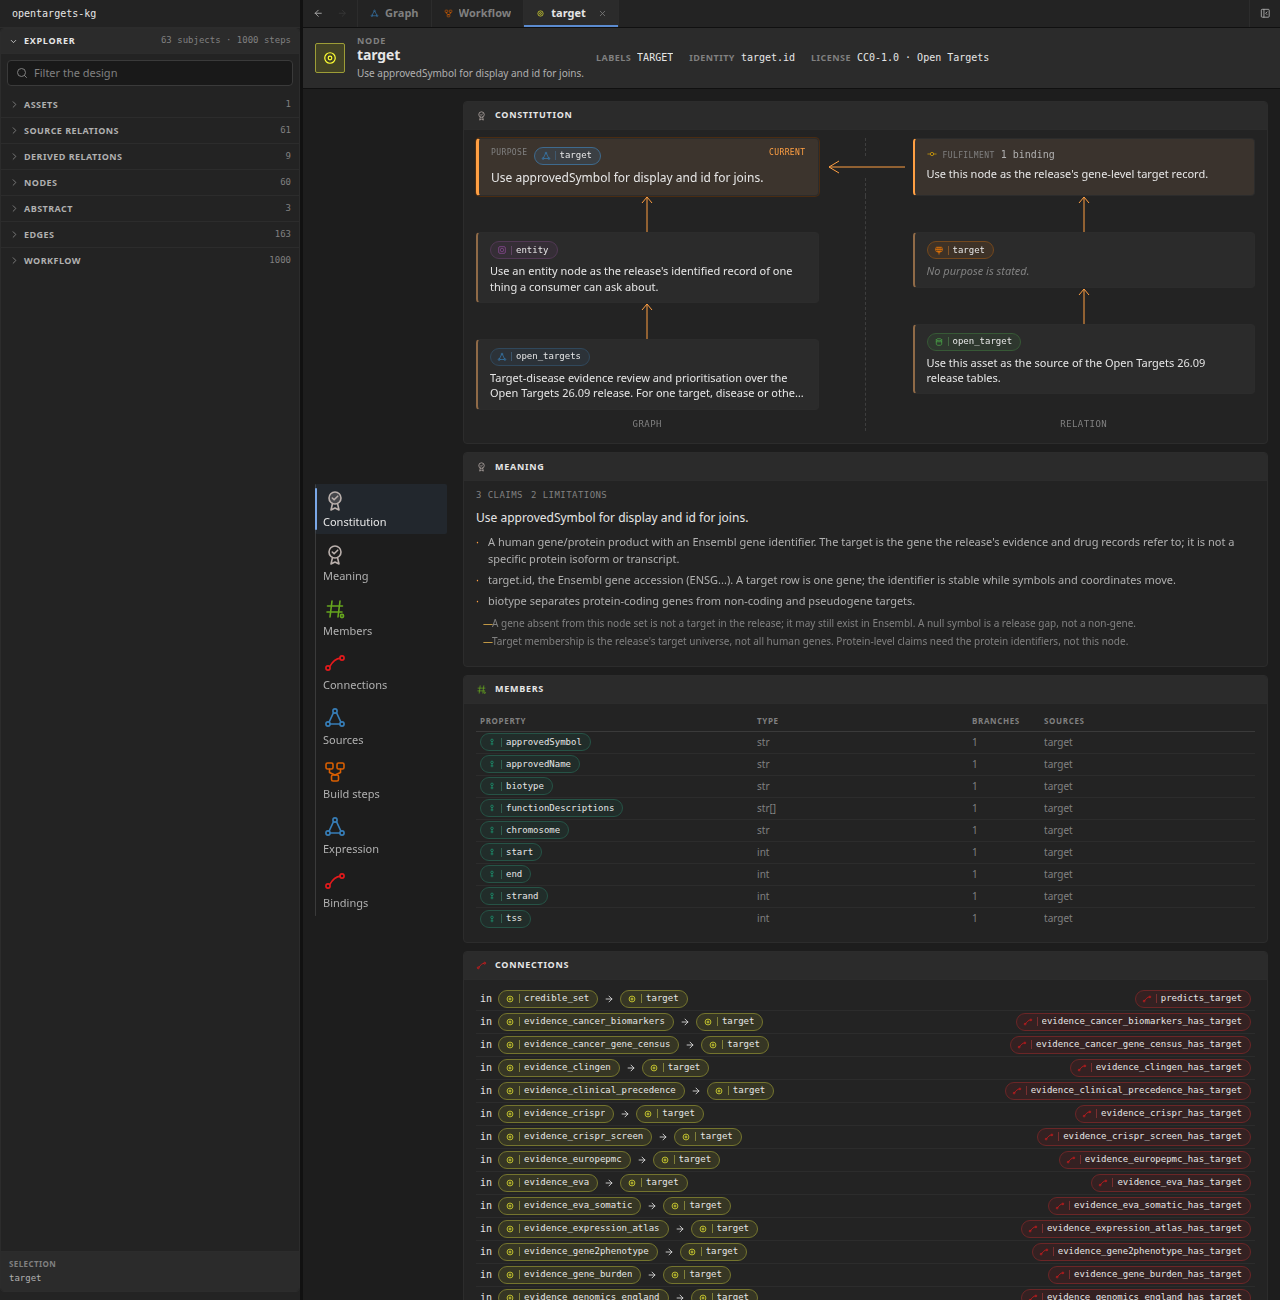
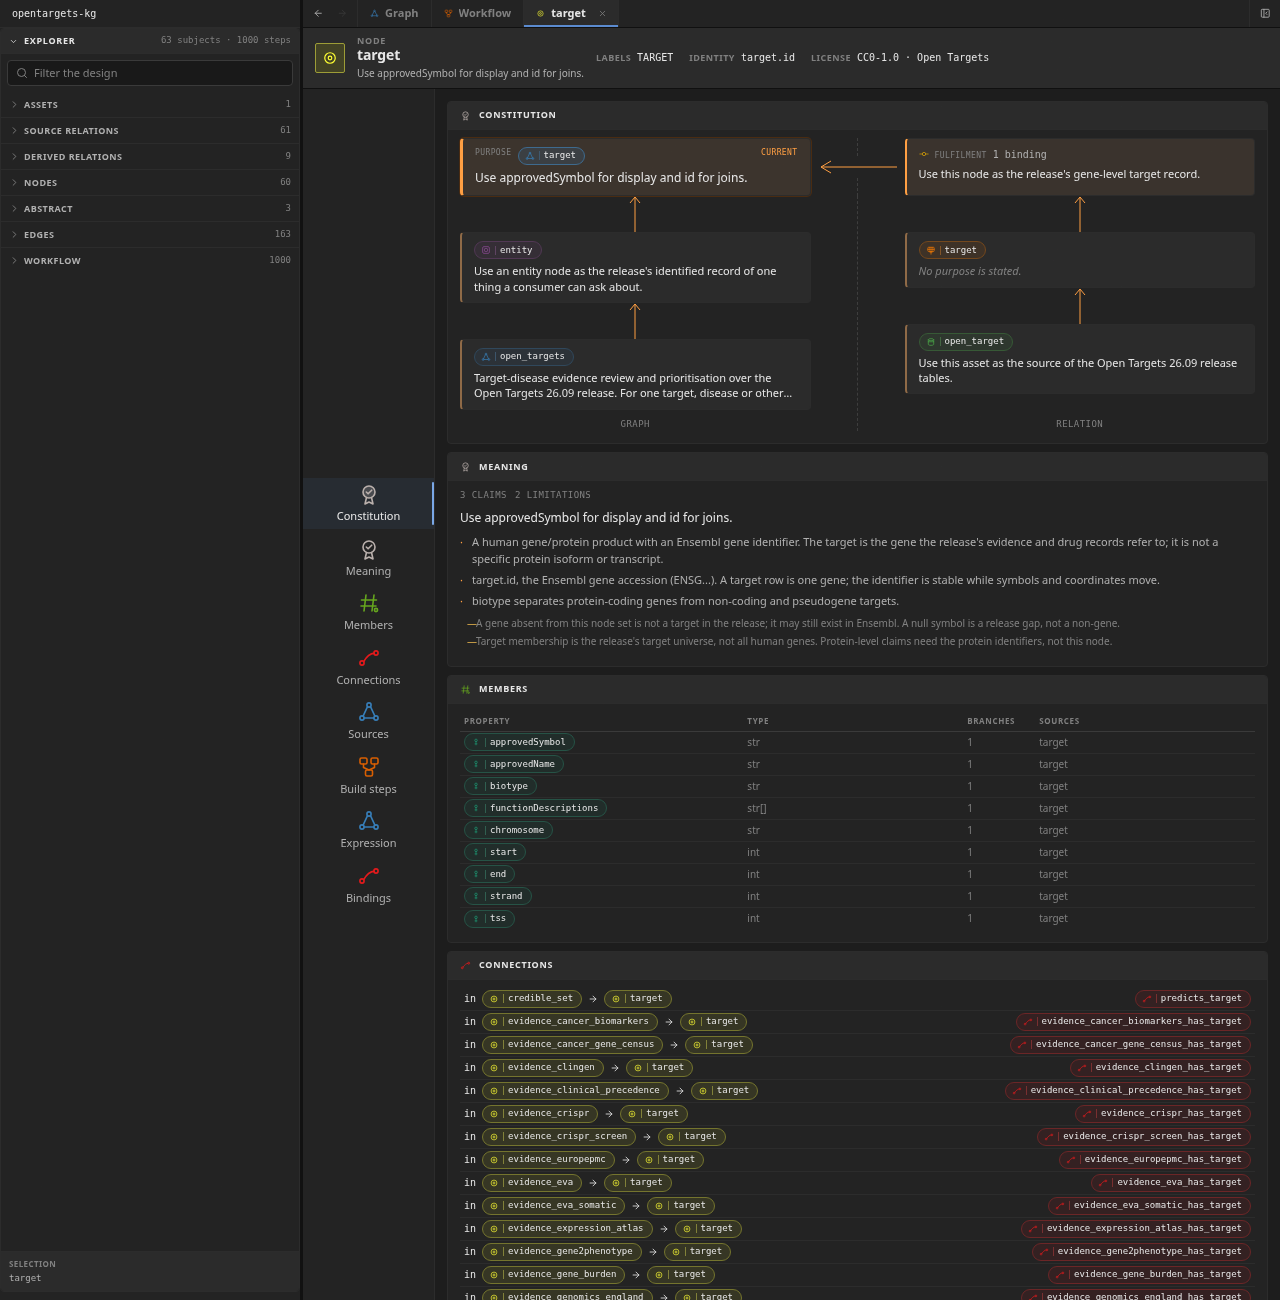
Make the detail index a centred static pane

diff --git a/viewer/detail/detail.module.css b/viewer/detail/detail.module.css
@@ -2,43 +2,49 @@
 
 .root {
   display: flex;
-  min-height: 100%;
+  height: 100%;
+  min-height: 0;
   flex-direction: column;
   background-color: var(--color-abyss);
   color: var(--color-text);
   font-size: var(--text-label);
 }
 
+/* The index is its own static pane; only the card column scrolls. */
 .body {
   display: grid;
   min-width: 0;
+  min-height: 0;
   flex: 1;
   grid-template-columns: minmax(0, 132px) minmax(0, 1fr);
-  align-items: start;
-  gap: var(--space-panel);
-  padding: var(--space-section) var(--space-section) var(--space-region);
 }
 
 .bands {
   display: flex;
   min-width: 0;
+  min-height: 0;
   flex-direction: column;
   gap: var(--space-group);
+  overflow-y: auto;
+  padding: var(--space-section) var(--space-section) var(--space-region);
+}
+
+/* The cards keep their natural height; the column scrolls, it does not
+   compress the cards to fit the pane. */
+.bands > * {
+  flex: none;
 }
 
 /* The index is the only detail navigation: the cards themselves do not fold. */
 .index {
-  position: sticky;
-  top: calc(var(--space-page) + var(--space-region));
   display: flex;
-  height: calc(
-    100vh - var(--space-page) * 2 - var(--space-region) - var(--space-stack)
-  );
   min-width: 0;
+  min-height: 0;
   flex-direction: column;
-  align-self: start;
   overflow-y: auto;
   padding: var(--space-section) 0;
+  border-right: var(--border-hairline) solid var(--color-line-soft);
+  background-color: var(--color-panel);
 }
 
 .indexList {
@@ -51,38 +57,25 @@
   list-style: none;
 }
 
-/* One side line carries the reading position; the cards stay unframed. */
-.indexList::before {
-  position: absolute;
-  top: 0;
-  bottom: 0;
-  left: 0;
-  width: var(--border-hairline);
-  border-radius: var(--radius-pill);
-  background-color: var(--color-line);
-  content: "";
-}
-
 .indexLink {
   position: relative;
   display: flex;
   flex-direction: column;
-  align-items: flex-start;
+  align-items: center;
   gap: var(--space-hairline);
-  padding: var(--space-inline) var(--space-stack) var(--space-inline)
-    var(--space-group);
-  border-radius: var(--radius-sm);
+  padding: var(--space-inline) var(--space-stack);
   color: var(--color-muted);
   font-size: var(--text-label);
+  text-align: center;
   text-decoration: none;
 }
 
-/* The active segment sits on the side line, not on the card. */
+/* The active segment sits on the pane divider, not on the card. */
 .indexLink::before {
   position: absolute;
   top: var(--space-inline);
   bottom: var(--space-inline);
-  left: 0;
+  right: 0;
   width: var(--border-heavy);
   border-radius: var(--radius-pill);
   background-color: var(--color-accent-strong);
@@ -1850,9 +1843,7 @@ button.expressionToggle:hover {
    the only place a section card outline, radius or surface is declared. */
 .band {
   min-width: 0;
-  scroll-margin-top: calc(
-    var(--space-page) + var(--space-region) + var(--space-stack)
-  );
+  scroll-margin-top: var(--space-section);
 }
 
 .bandGlyph {

diff --git a/viewer/detail/view/DetailChrome.tsx b/viewer/detail/view/DetailChrome.tsx
@@ -90,7 +90,7 @@ function useDetailSections(bodyRef: RefObject<HTMLDivElement | null>) {
       // must not overwrite the index of the visible document.
       if (!root || root.getClientRects().length === 0) return;
       const banner = root.querySelector("header");
-      const line = (banner?.getBoundingClientRect().bottom ?? 0) + 12;
+      const line = (banner?.getBoundingClientRect().bottom ?? 0) + 20;
       let active = sections[0].id;
       for (const section of sections) {
         const element = document.getElementById(section.id);
@@ -122,15 +122,17 @@ function useDetailSections(bodyRef: RefObject<HTMLDivElement | null>) {
     };
   }, [bodyRef, sections]);
 
-  return { sections, activeId };
+  return { sections, activeId, setActiveId };
 }
 
 function DetailIndex({
   sections,
   activeId,
+  onSelect,
 }: {
   sections: DetailIndexSection[];
   activeId: string | null;
+  onSelect: (id: string) => void;
 }) {
   if (sections.length < 2) return null;
   return (
@@ -148,6 +150,7 @@ function DetailIndex({
               aria-current={section.id === activeId ? "location" : undefined}
               onClick={(event) => {
                 event.preventDefault();
+                onSelect(section.id);
                 const reduce = window.matchMedia(
                   "(prefers-reduced-motion: reduce)",
                 ).matches;
@@ -196,7 +199,7 @@ export function DetailDocument({
   children,
 }: DetailDocumentProps) {
   const bodyRef = useRef<HTMLDivElement>(null);
-  const { sections, activeId } = useDetailSections(bodyRef);
+  const { sections, activeId, setActiveId } = useDetailSections(bodyRef);
   return (
     <div
       className={styles.root}
@@ -212,7 +215,11 @@ export function DetailDocument({
         facts={facts}
       />
       <div className={styles.body}>
-        <DetailIndex sections={sections} activeId={activeId} />
+        <DetailIndex
+          sections={sections}
+          activeId={activeId}
+          onSelect={setActiveId}
+        />
         <div className={styles.bands} ref={bodyRef}>
           {children}
         </div>

diff --git a/viewer/DESIGN_LANGUAGE.md b/viewer/DESIGN_LANGUAGE.md
@@ -205,9 +205,11 @@ label, not a visible line. Cards are static; the detail body never folds them.
 The card may not re-declare a surface or header; those belong to the generic
 layer.
 
-A detail body pairs one left index rail with the card stack. The rail is sticky,
-lists the top-level cards in reading order, marks the current card, and
-disappears below the width where a card would lose its reading measure.
+A detail body pairs one left index pane with the card stack. The index is a
+static view: it does not scroll with the cards, it centres its tiles in the
+pane, lists the top-level cards in reading order and marks the current card.
+The card column owns the scroll. The index disappears below the width where a
+card would lose its reading measure.
 
 ## Interaction motion
 
